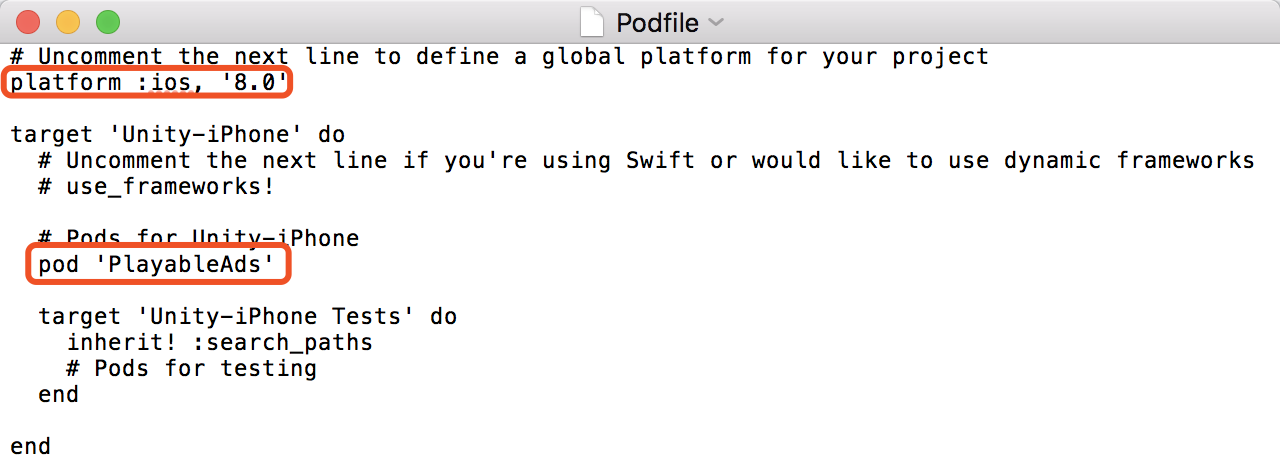
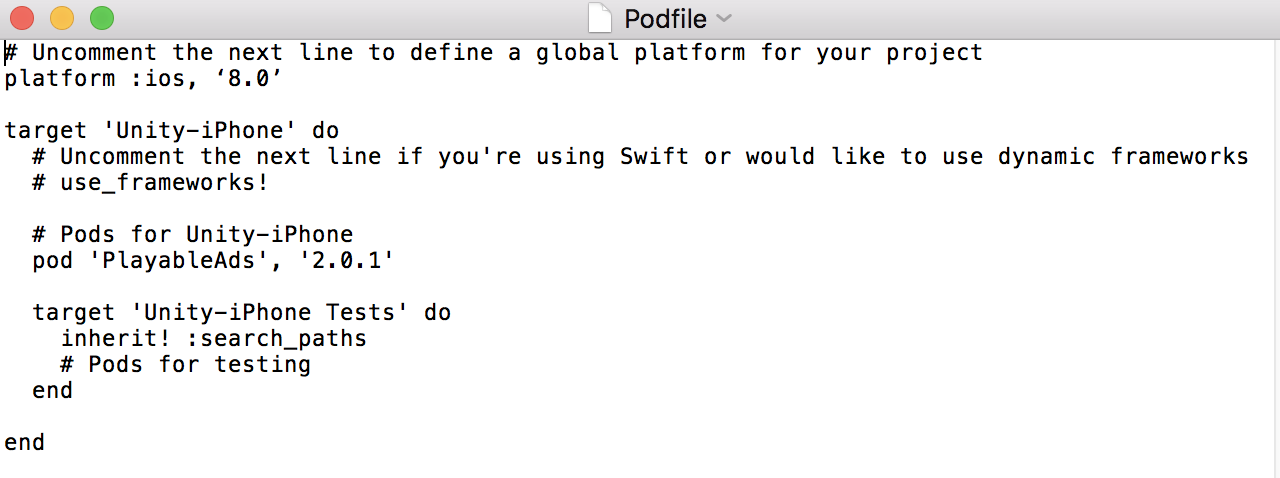
升级iOS插件，适配sdk2.0.1，添加自动加载方法

diff --git a/Assets/Scripts/PlayableAdsBridge.cs b/Assets/Scripts/PlayableAdsBridge.cs
@@ -16,9 +16,18 @@ namespace PlayableAds.API {
 		[DllImport("__Internal")]
 		private static extern bool _isReady();
 
+		[DllImport("__Internal")]
+		private static extern void _autoload(bool autoload);
+
+		[DllImport("__Internal")]
+		private static extern bool _isAutoload();
+
+		private static bool isAutoload = true;
+
 		public static void RequestAd(string gameObjName, string appId, string adUnitId)
 		{
 			_loadAd(gameObjName, appId, adUnitId);
+			_autoload(isAutoload);
 		}
 
 		public static void PresentAd()
@@ -29,6 +38,16 @@ namespace PlayableAds.API {
 		public static bool IsReady()
 		{
 			return _isReady();
+		}
+
+		public static void Autoload(bool autoload)
+		{
+			isAutoload = autoload;
+			_autoload(isAutoload);
+		}
+
+		public static bool IsAutoload(){
+			return _isAutoload();
 		}
 
 	}

diff --git a/Assets/Plugins/IOS/PlayableAdsBridge.mm b/Assets/Plugins/IOS/PlayableAdsBridge.mm
@@ -143,4 +143,17 @@ extern "C"
         }
         return NO;
     }
+    
+    void _autoload(const bool autoload) {
+        if(delegateObj != nil && delegateObj.pAd != nil){
+            delegateObj.pAd.autoLoad = autoload;
+        }
+    }
+    
+    Boolean _isAutoload(){
+        if(delegateObj != nil && delegateObj.pAd != nil){
+            return delegateObj.pAd.autoLoad;
+        }
+        return NO;
+    }
 }

diff --git a/Assets/Scripts/CameraController.cs b/Assets/Scripts/CameraController.cs
@@ -33,7 +33,10 @@ public class CameraController : MonoBehaviour, IPlayableListener, IPlayableAdapt
 		cbInfo.text = "request ad";
 
 		#if UNITY_IOS
-		PlayableAdsBridge.RequestAd(gameObject.name, iOSDemoAppId, iOSDemoAdUnitId);
+		if (!PlayableAdsBridge.IsAutoload())
+		{
+			PlayableAdsBridge.RequestAd(gameObject.name, iOSDemoAppId, iOSDemoAdUnitId);
+		}
 		#endif
 
 		#if UNITY_ANDROID

diff --git a/README-CN.md b/README-CN.md
@@ -38,7 +38,7 @@
 ## 导入PlayableAds.unitypackage
 
 ### 1. 导入可玩插件包
-Android与iOS使用同一个插件包，导入步骤为Assets->Import Package -> Custom Package...
+Android与iOS使用同一个插件包，导入步骤为Assets-> Import Package -> Custom Package...
 
 点此下载[PlayableAds.unitypackage](/PlayableAds.unitypackage)
 
@@ -76,6 +76,16 @@ c. 如果您只需要Android，只导入Android插件，如图：
     ``` c#
     PlayableAdsBridge.PresentAd();
     ```
+ - 设置自动加载下一条广告
+ 	``` c#
+	PlayableAdsBridge.Autoload(bool);
+	```
+	默认为自动加载，即经首次请求广告后，后续SDK会自动加载下一条广告，不需要再次调用请求方法。
+
+ - 判断广告是否自动加载下一条广告
+ 	``` c#
+	PlayableAdsBridge.IsAutoload();
+	```
  - 自定义事件
     ```c#
     // 位置：Demo/Assets/Scripts/PlayableAdsBridge.IPlayableListener
@@ -148,12 +158,12 @@ c. 如果您只需要Android，只导入Android插件，如图：
 ![image](/images/image14.png)
 ### 2. 初始化pod后会生成Podfile文件，在此文件下添加可玩sdk，如下
 ![image](/images/image15.png)
-根据项目的不同，这个文件可能有所不同，只要确保将```pod 'PlayableAds'```添加到Podfile中即可。
+根据项目的不同，这个文件可能有所不同，只要确保将```pod 'PlayableAds', '~>2.0.1'```添加到Podfile中即可。
 注意：可玩广告SDK最低支持ios8.0，
 
 ### 3. 安装可玩sdk
 ```
-pod install --repo-update
+pod install
 ```
 ![image](/images/image16.png)
 看到红线圈出的部分代表可玩广告SDK安装成功，此时可以运行项目查看运行效果了，步骤如下
